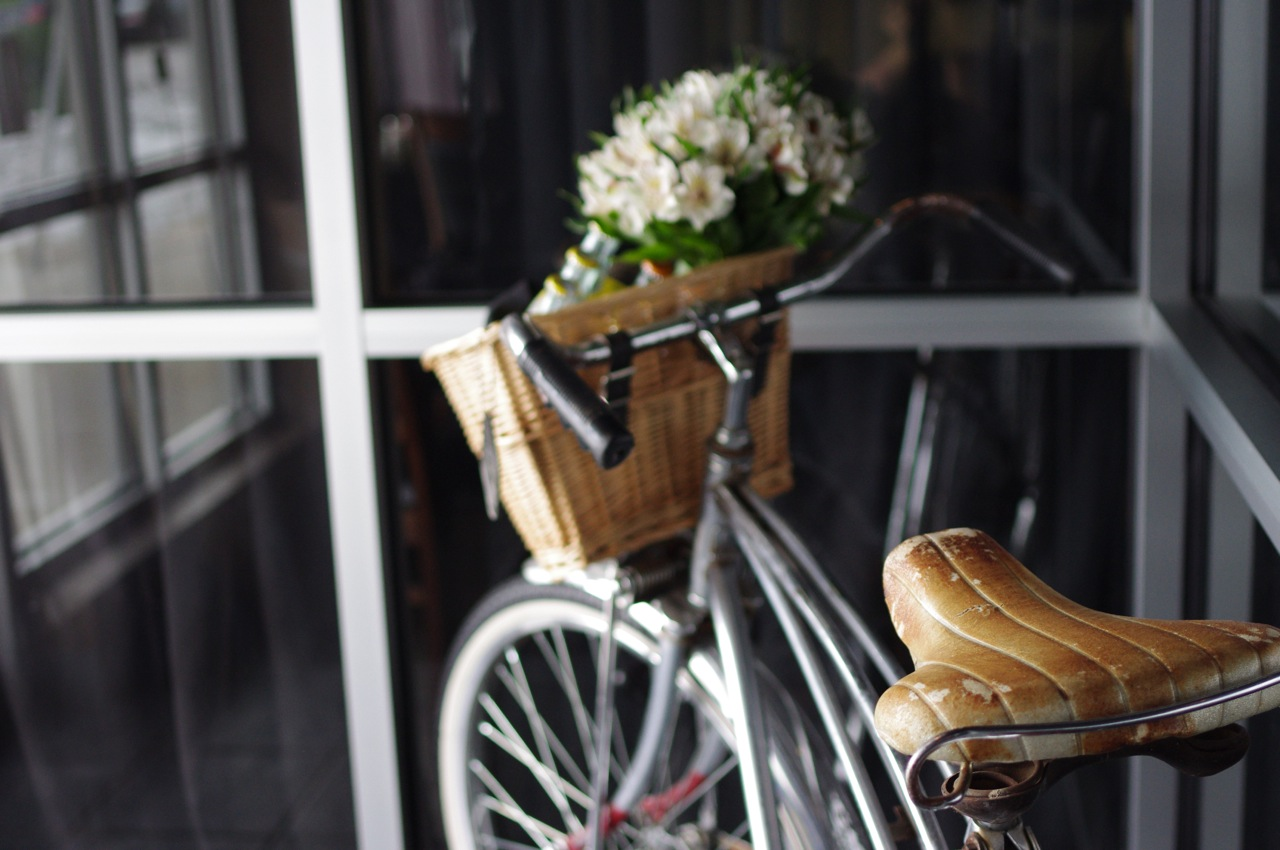
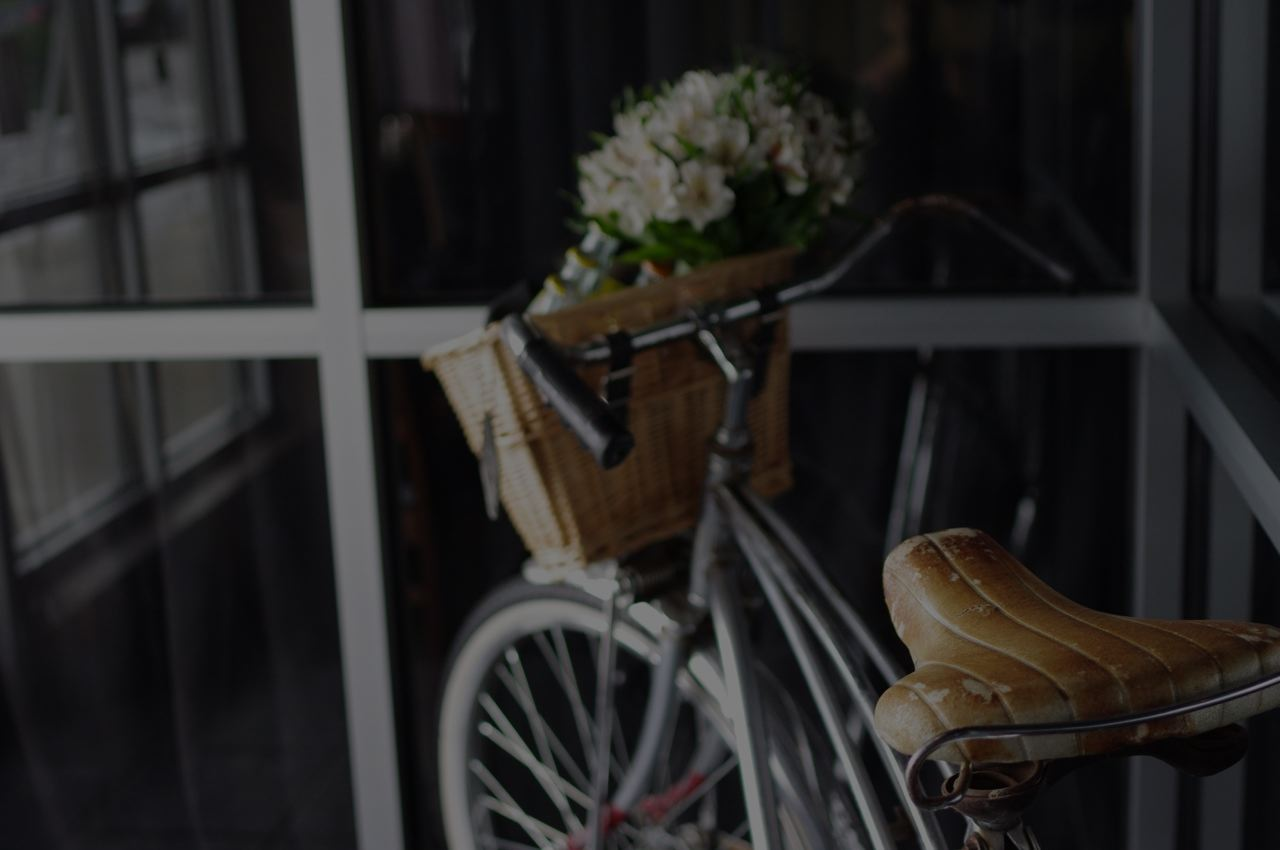
darkened background image

diff --git a/public/main.css b/public/main.css
@@ -131,7 +131,7 @@ html,
 body {
   height: 100%;
   background-color: #444;
-  background: url('./images/2chez-restaurant1.jpg') center scroll; 
+  background: url('./images/2chez-restaurant1.jpg') center no-repeat scroll;
   -webkit-background-size: cover;
   -moz-background-size: cover;
   -o-background-size: cover;
